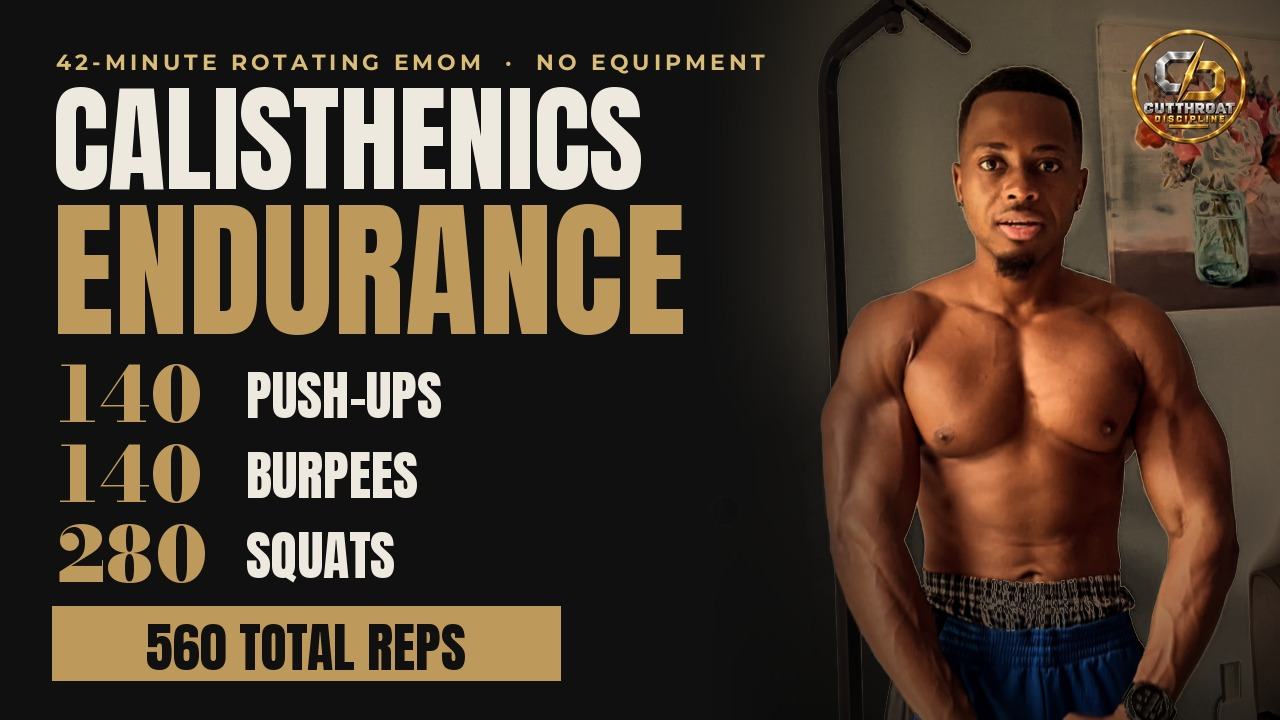
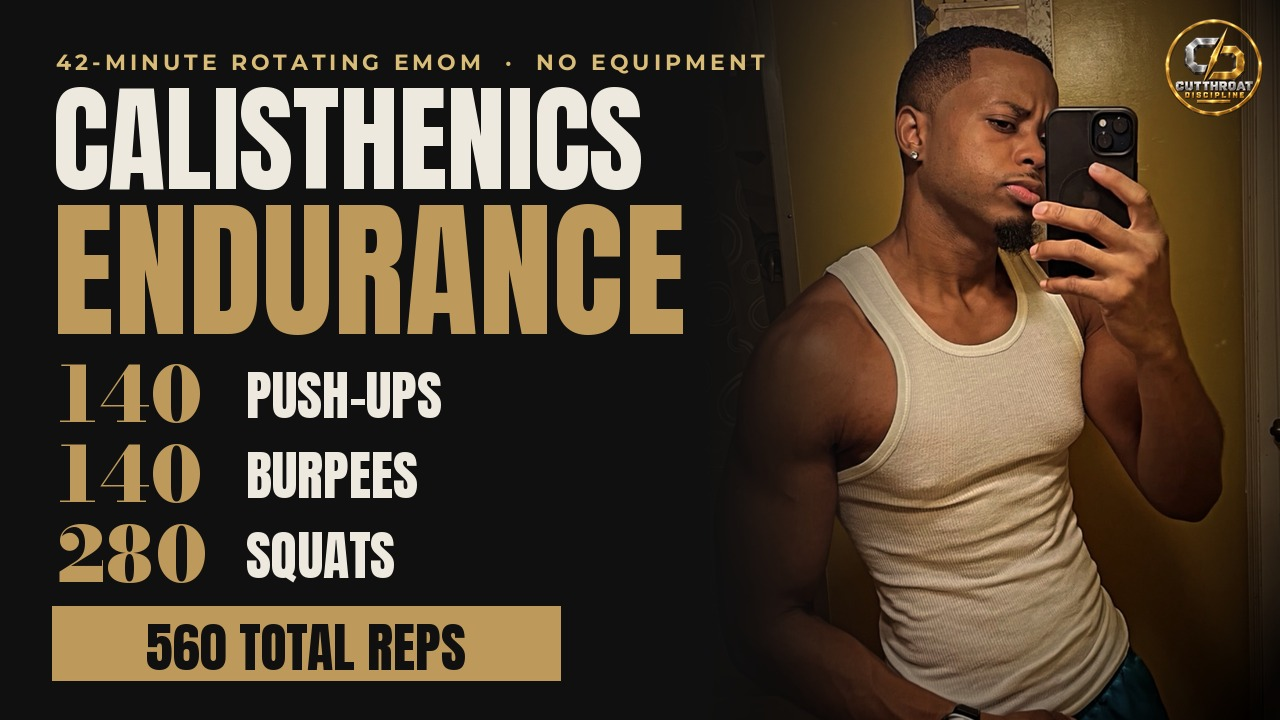
Thumbnail: use Edison's mirror photo
Claude-Session: https://claude.ai/code/session_01XgV1Y2NfWYwAyGjWbzhh5n

diff --git a/tools/build_youtube_thumb_emom.py b/tools/build_youtube_thumb_emom.py
@@ -1,18 +1,17 @@
 """YouTube thumbnail (1280x720): 42-round calisthenics endurance EMOM, Monumental kit + CTD logo.
 
 Usage: python3 tools/build_youtube_thumb_emom.py
-Source photo: outputs/edison-ambrister-yt-emom-endurance/source-images/edison-home.png (Edison's own photo)
+Source photo: outputs/edison-ambrister-yt-emom-endurance/source-images/edison-mirror.jpg (Edison's own photo)
 """
 from pathlib import Path
 
 import numpy as np
-from PIL import Image, ImageDraw, ImageEnhance, ImageOps
+from PIL import Image, ImageDraw, ImageFilter, ImageOps
 
 from monumental_type import BONE, GOLD, HEAD, INK, LGOLD, NUMERAL, ROOT, STONE, TOKENS, UTIL, font, tracked, tracked_width
 
 OUT = ROOT / "outputs/edison-ambrister-yt-emom-endurance"
 TW, TH = 1280, 720
-FACE = (322, 172, 52, 66)  # face centre x, y and radii in the resized photo
 
 
 def fit(path, text, size, width):
@@ -23,25 +22,19 @@ def fit(path, text, size, width):
 
 
 def photo():
-    im = ImageOps.exif_transpose(Image.open(OUT / "source-images/edison-home.png")).convert("RGB")
-    im = im.crop((0, 470, im.width, 470 + round(im.width / 0.86)))
+    im = ImageOps.exif_transpose(Image.open(OUT / "source-images/edison-mirror.jpg")).convert("RGB")
+    im = im.crop((0, 430, im.width, 430 + round(im.width / 0.86)))
     im = im.resize((round(TH * im.width / im.height), TH), Image.LANCZOS)
-    im = ImageEnhance.Color(im).enhance(0.88)
     a = np.asarray(im, np.float32) / 255
-    lum = a.mean(axis=2)
-    sat = a.max(axis=2) - a.min(axis=2)
-    # pull down bright, low-saturation background (sky, walls) and the overall exposure
-    bg = np.clip((lum - .55) / .3, 0, 1) * np.clip((.22 - sat) / .15, 0, 1)
-    # keep the face out of the background pull (eye whites are bright and colourless like the wall)
-    h, w = lum.shape
+    r, g, b = a[..., 0], a[..., 1], a[..., 2]
+    # the wall is mustard yellow: red and green close together, blue well below; skin has red clearly above green
+    yellow = np.clip(((r + g) / 2 - b - .12) / .1, 0, 1) * np.clip((.075 - np.abs(r - g)) / .045, 0, 1)
+    yellow = np.asarray(Image.fromarray((yellow * 255).astype("uint8")).filter(ImageFilter.GaussianBlur(3)), np.float32) / 255
+    a = a * (1 - yellow[..., None] * .85)
+    a = np.clip(a ** 1.08 * np.array([1.04, 1.0, .94], np.float32), 0, 1)
+    h, w = r.shape
     yy, xx = np.mgrid[0:h, 0:w].astype(np.float32)
-    face = np.clip(2.2 - 1.6 * np.sqrt(((xx - FACE[0]) / FACE[2]) ** 2 + ((yy - FACE[1]) / FACE[3]) ** 2), 0, 1)
-    bg = bg * (1 - face)
-    a = a * (1 - bg[..., None] * .8)
-    a = np.clip(a ** 1.12, 0, 1)
-    warm = np.array([1.08, .98, .82], np.float32)
-    a = np.clip(a * warm, 0, 1)
-    vig = np.clip(1 - (((xx - w * .55) / (w * .75)) ** 2 + ((yy - h * .42) / (h * .8)) ** 2), .15, 1)
+    vig = np.clip(1.1 - (((xx - w * .45) / (w * .62)) ** 2 + ((yy - h * .45) / (h * .75)) ** 2), .08, 1)
     a = a * vig[..., None]
     return Image.fromarray((a * 255).astype("uint8"))
 
@@ -78,8 +71,8 @@ def main():
     t = "560 TOTAL REPS"
     d.text((52 + (508 - tf.getlength(t)) / 2, y + 12 - tf.getbbox("H")[1] + 6), t, font=tf, fill=INK)
 
-    logo = Image.open(ROOT / TOKENS["logo"]["compact"]).convert("RGBA").resize((118, 118), Image.LANCZOS)
-    img.paste(logo, (TW - 150, 28), logo)
+    logo = Image.open(ROOT / TOKENS["logo"]["compact"]).convert("RGBA").resize((100, 100), Image.LANCZOS)
+    img.paste(logo, (TW - 116, 18), logo)
 
     img.save(OUT / "yt-thumbnail-emom-endurance.png", optimize=True)
     img.save(OUT / "jpg/yt-thumbnail-emom-endurance.jpg", quality=92)

diff --git a/outputs/edison-ambrister-yt-emom-endurance/README.md b/outputs/edison-ambrister-yt-emom-endurance/README.md
@@ -3,5 +3,5 @@
 - **Size:** 1280×720 (YouTube thumbnail). File: `jpg/yt-thumbnail-emom-endurance.jpg` (PNG alongside).
 - **Workout:** 42-minute rotating EMOM. Minute 1: 10 push-ups, minute 2: 10 burpees, minute 3: 20 squats, repeat (14 rounds of each).
 - **Totals:** 140 push-ups, 140 burpees, 280 squats = 560 reps.
-- **Photo:** Edison's own photo at home (`source-images/edison-home.png`), graded dark and gold. Logo: Cutthroat Discipline emblem.
+- **Photo:** Edison's mirror photo (`source-images/edison-mirror.jpg`); the yellow wall is darkened, skin and eyes untouched. Logo: Cutthroat Discipline emblem.
 - **Rebuild:** `python3 tools/build_youtube_thumb_emom.py`
